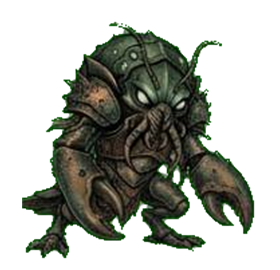
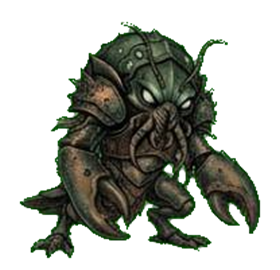
Preserve full claw silhouettes when separating sprite frames

Changed region(s): [[0.0571, 0.0593, 0.9429, 0.9778]]

diff --git a/test_v2_motion.js b/test_v2_motion.js
@@ -444,7 +444,7 @@ assert(fs.existsSync(path.join(root, "art/v2-style/animation-sheets/green-raw/cr
 assert(fs.existsSync(path.join(root, "art/v2-style/animation-sheets/green-raw/grave-worm-animation-sheet.jpg")), "New raw Grave Worm sheet is missing.");
 assert(fs.existsSync(path.join(root, "art/v2-style/animation-sheets/green-raw/siren-animation-sheet.jpg")), "New raw Siren sheet is missing.");
 assert(fs.existsSync(path.join(root, "art/v2-style/animation-sheets/green-raw/mimic-animation-sheet.jpg")), "New raw Mimic sheet is missing.");
-assert(serviceWorker.includes("necromancer-expedition-v207"), "Service worker cache version was not bumped.");
+assert(serviceWorker.includes("necromancer-expedition-v208"), "Service worker cache version was not bumped.");
 for (const slug of ['ancient-treant','skeleton-spear','stone-golem','goblin-rider']) {
   for (const [motion,count] of Object.entries({attack:5,hit:4,death:slug === 'ancient-treant' ? 6 : 5})) {
     for(let i=1;i<=count;i++) {
@@ -506,7 +506,6 @@ assert(serviceWorker.includes("animation-test-frames/abyss-claw-hunter/${motion}
 assert(abyssClawHunterProcessor.includes('SaveFrame(generated, new Rectangle(0, 0, generated.Width, generated.Height), outputDirectory, "attack", 3, true);'), "Attack frame 3 must use the repaired raised-pincer artwork and canonical direction.");
 assert(abyssClawHunterProcessor.includes('SaveFrame(sheet, attack[0], outputDirectory, "attack", 1, true);') && abyssClawHunterProcessor.includes('SaveFrame(sheet, hit[0], outputDirectory, "hit", 1, true);'), "Mirrored source poses must be normalized to one direction.");
 assert(abyssClawHunterProcessor.includes('SaveFrame(sheet, attack[4], outputDirectory, "attack", 5, true);'), "Attack frame 5 must be mirrored to the canonical direction.");
-assert(abyssClawHunterProcessor.includes('Rectangle.FromLTRB(395, 8, 590, 241)') && abyssClawHunterProcessor.includes('Rectangle.FromLTRB(1058, 488, 1279, 710)'), "Attack and death crops must stop before neighboring sprites.");
 for (const [motion, count] of Object.entries({ attack: 5, hit: 4, death: 5 })) {
   for (let index = 1; index <= count; index += 1) {
     const relative = `art/v2-style/animation-test-frames/abyss-claw-hunter/${motion}-${String(index).padStart(2, "0")}.png`;

diff --git a/test_v2_auto_battle.js b/test_v2_auto_battle.js
@@ -127,7 +127,7 @@ for (const slug of ["death-knight", "skeleton-spear", "ghoul", "ancient-treant",
   }
 }
 
-assert(worker.includes('necromancer-expedition-v207'), "Service worker cache version was not advanced.");
+assert(worker.includes('necromancer-expedition-v208'), "Service worker cache version was not advanced.");
 assert(worker.includes("v2-auto-battle-practice.html"), "Auto battle page is not cached.");
 assert(worker.includes("v2-auto-battle-practice.css?v=45"), "Turn dice, lineup picker and illustrated unit info styling is not cached.");
 assert(worker.includes("v2-auto-battle-practice.js?v=54") && worker.includes("v2-legions.js?v=3") && worker.includes("v2-battle-brands.js?v=3"), "Turn-based status battle logic is not cached.");

diff --git a/service-worker.js b/service-worker.js
@@ -1,4 +1,4 @@
-const CACHE_NAME = "necromancer-expedition-v207";
+const CACHE_NAME = "necromancer-expedition-v208";
 const APP_SHELL = [
   "./",
   "./index.html",
@@ -371,7 +371,8 @@ Object.entries({ attack: 5, hit: 4, death: 5 }).forEach(([motion, count]) => {
 self.addEventListener("install", (event) => {
   event.waitUntil(
     caches.open(CACHE_NAME)
-      .then((cache) => cache.addAll(APP_SHELL))
+      .then((cache) => cache.addAll(APP_SHELL.map(path =>
+        path.includes("/abyss-claw-hunter/") ? new Request(path, { cache: "reload" }) : path)))
       .then(() => self.skipWaiting())
   );
 });
